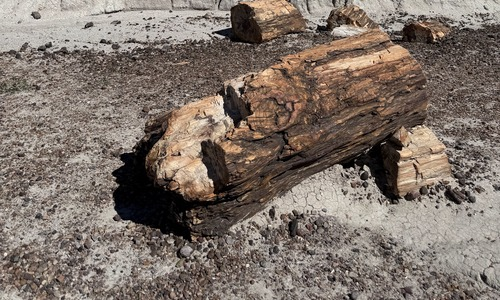
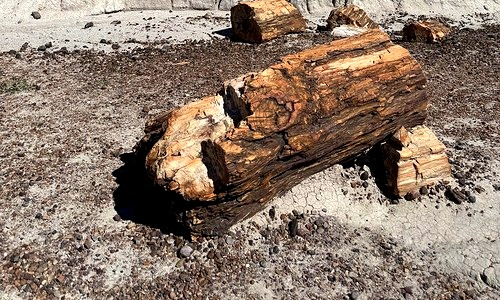
grca mar 2026

diff --git a/README.md b/README.md
@@ -99,12 +99,14 @@ Chronological order is conventional but not required.
 - **Format:** PNG
 - **Dimensions:** 160x160px (2x for the 80px display size)
 - The rubber cancellation stamp from the park's passport stamp, displayed as the primary visual in the visit card
+- **Tip:** If the scanned stamp has overlapping stamps or noise, Gemini image generation does a great job producing a clean recreation. Prompt it with the park name, date, and location text from the original stamp.
 
 ### 3. Add the visit photo
 
 - **Path:** `img/visits/YYYYMMDD-{parkCode}.{ext}` (jpg, jpeg, or png)
 - **Dimensions:** 500px wide, height flexible - the image is cropped from the center via `background-size: cover`, so only the middle strip is visible at card height (92px). Landscape or square crops work best; tall portrait images lose most of their content.
 - Used as a blurred background image on the visit card, revealed on hover
+- **Tip:** To make photos pop, apply a gentle filter before saving: `magick input.jpg -brightness-contrast 3x18 -modulate 100,140,100 -unsharp 0x0.6+0.5+0 output.jpg` (boosts contrast, saturation, and adds light sharpening)
 
 ### 4. Create a year card SVG (new years only)
 

diff --git a/AGENTS.md b/AGENTS.md
@@ -18,3 +18,4 @@ Look up NPS park codes using the field `parkCode` in `data/parks.json`. All entr
 | Grand Teton | `grte` | Yosemite | `yose` |
 | Haleakala | `hale` | Zion | `zion` |
 | Hawaii Volcanoes | `havo` | Big Bend | `bibe` |
+| Petrified Forest | `pefo` | | |
